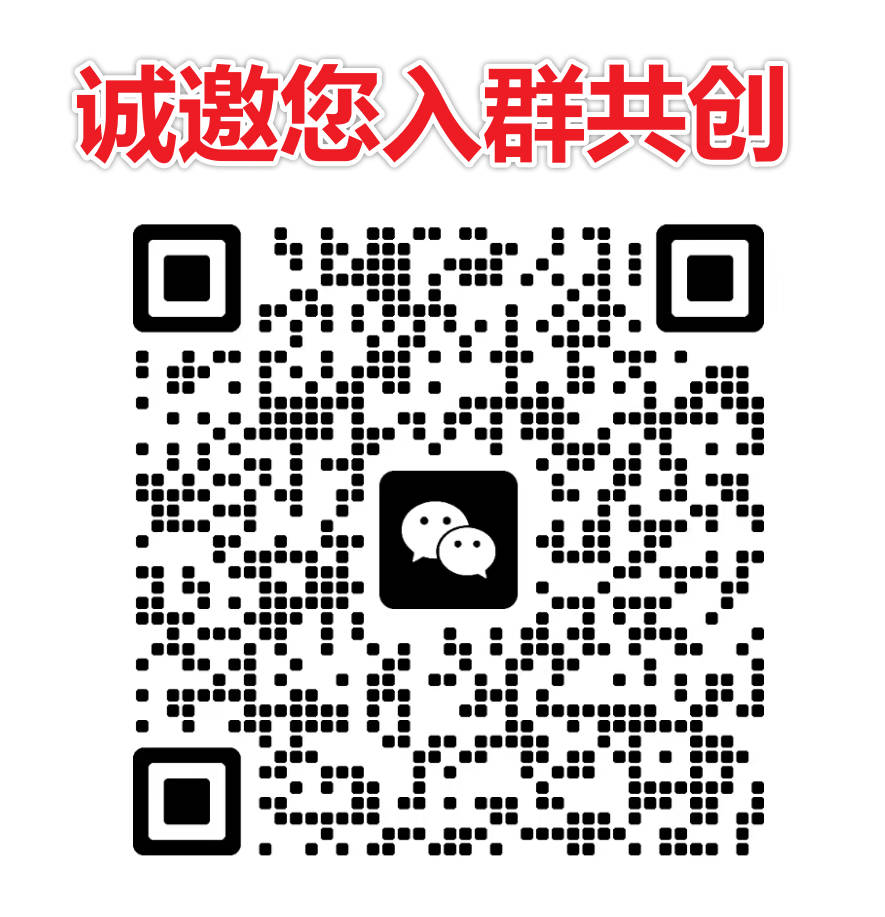
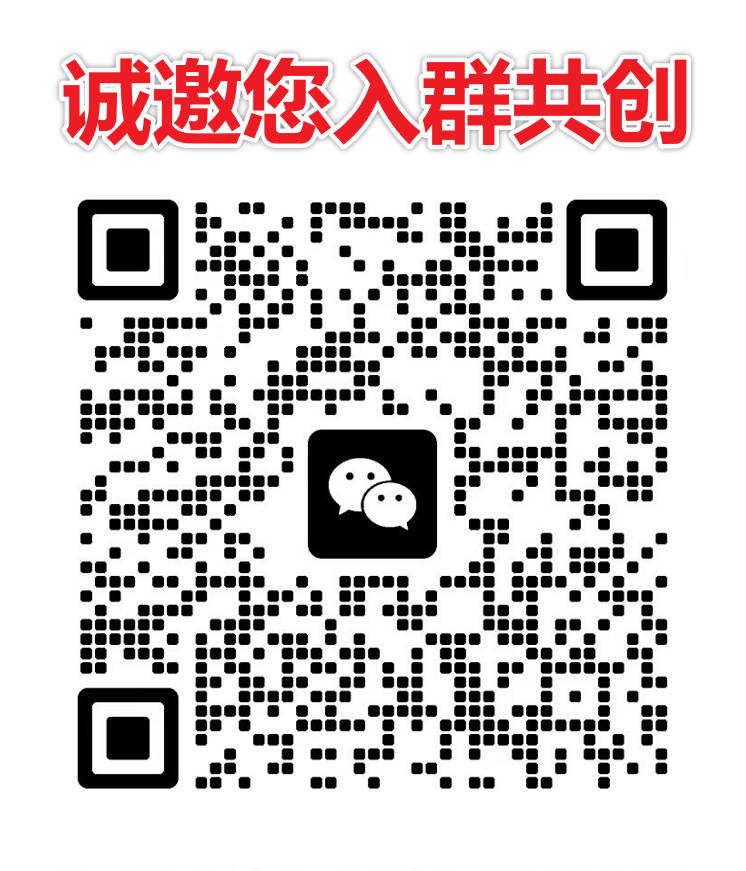
docs: Update Website AND QRcode

diff --git a/README.md b/README.md
@@ -25,13 +25,13 @@ Powered by SAM 3 and multimodal large models, it enables high-fidelity reconstru
 
 <h3 align="center">Try It Now!</h3>
 <p align="center">
-  <a href="https://editbanana.anxin6.cn/">
-    <img src="https://img.shields.io/badge/🚀%20Try%20Online%20Demo-editbanana.anxin6.cn-FF6B6B?style=for-the-badge&logoColor=white" alt="Try Online Demo"/>
+  <a href="https://www.editbanana.net/">
+    <img src="https://img.shields.io/badge/🚀%20Try%20Online%20Demo-www.editbanana.net-FF6B6B?style=for-the-badge&logoColor=white" alt="Try Online Demo"/>
   </a>
 </p>
 
 <p align="center">
-  👆 <b>Click above or https://editbanana.anxin6.cn/ to try Edit Banana online!</b> Upload an image to get <b>editable DrawIO (XML)</b> in seconds. 
+  👆 <b>Click above or https://www.editbanana.net/ to try Edit Banana online!</b> Upload an image to get <b>editable DrawIO (XML)</b> in seconds. 
 </p>
 
 > [!WARNING]

diff --git a/README_CN.md b/README_CN.md
@@ -25,13 +25,13 @@
 
 <h3 align="center">立即体验！</h3>
 <p align="center">
-  <a href="https://editbanana.anxin6.cn/">
-    <img src="https://img.shields.io/badge/🚀%20在线体验-editbanana.anxin6.cn-FF6B6B?style=for-the-badge&logoColor=white" alt="Try Online Demo"/>
+  <a href="https://www.editbanana.net/">
+    <img src="https://img.shields.io/badge/🚀%20在线体验-www.editbanana.net-FF6B6B?style=for-the-badge&logoColor=white" alt="Try Online Demo"/>
   </a>
 </p>
 
 <p align="center">
-  👆 <b>点击上方或访问 https://editbanana.anxin6.cn/ 在线体验 Edit Banana！</b> 上传图片，几秒钟即可获得<b>可编辑的 DrawIO (XML) 文件</b>
+  👆 <b>点击上方或访问 https://www.editbanana.net/ 在线体验 Edit Banana！</b> 上传图片，几秒钟即可获得<b>可编辑的 DrawIO (XML) 文件</b>
 </p>
 
 > [!WARNING]
